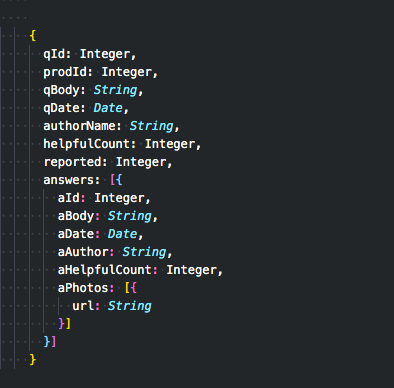
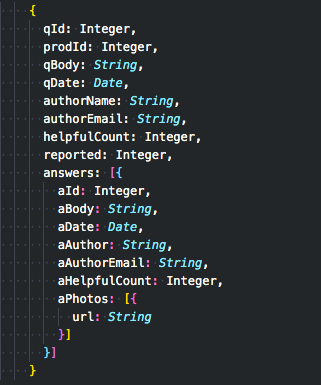
schema updates for user email

diff --git a/mongoSchema.js b/mongoSchema.js
@@ -7,6 +7,7 @@
       qBody: String,
       qDate: Date,
       authorName: String,
+      authorEmail: String,
       helpfulCount: Integer,
       reported: Integer,
       answers: [{
@@ -14,6 +15,7 @@
         aBody: String,
         aDate: Date,
         aAuthor: String,
+        aAuthorEmail: String,
         aHelpfulCount: Integer,
         aPhotos: [{
           url: String

diff --git a/README.md b/README.md
@@ -5,7 +5,7 @@
 # Schemas -->
 
 ### -- SQL Schema --
-  - SQL/MySql -
+  - SQL/Postgres -
 
 ![SQL Schema](./images/SQLSchema.png)
 
